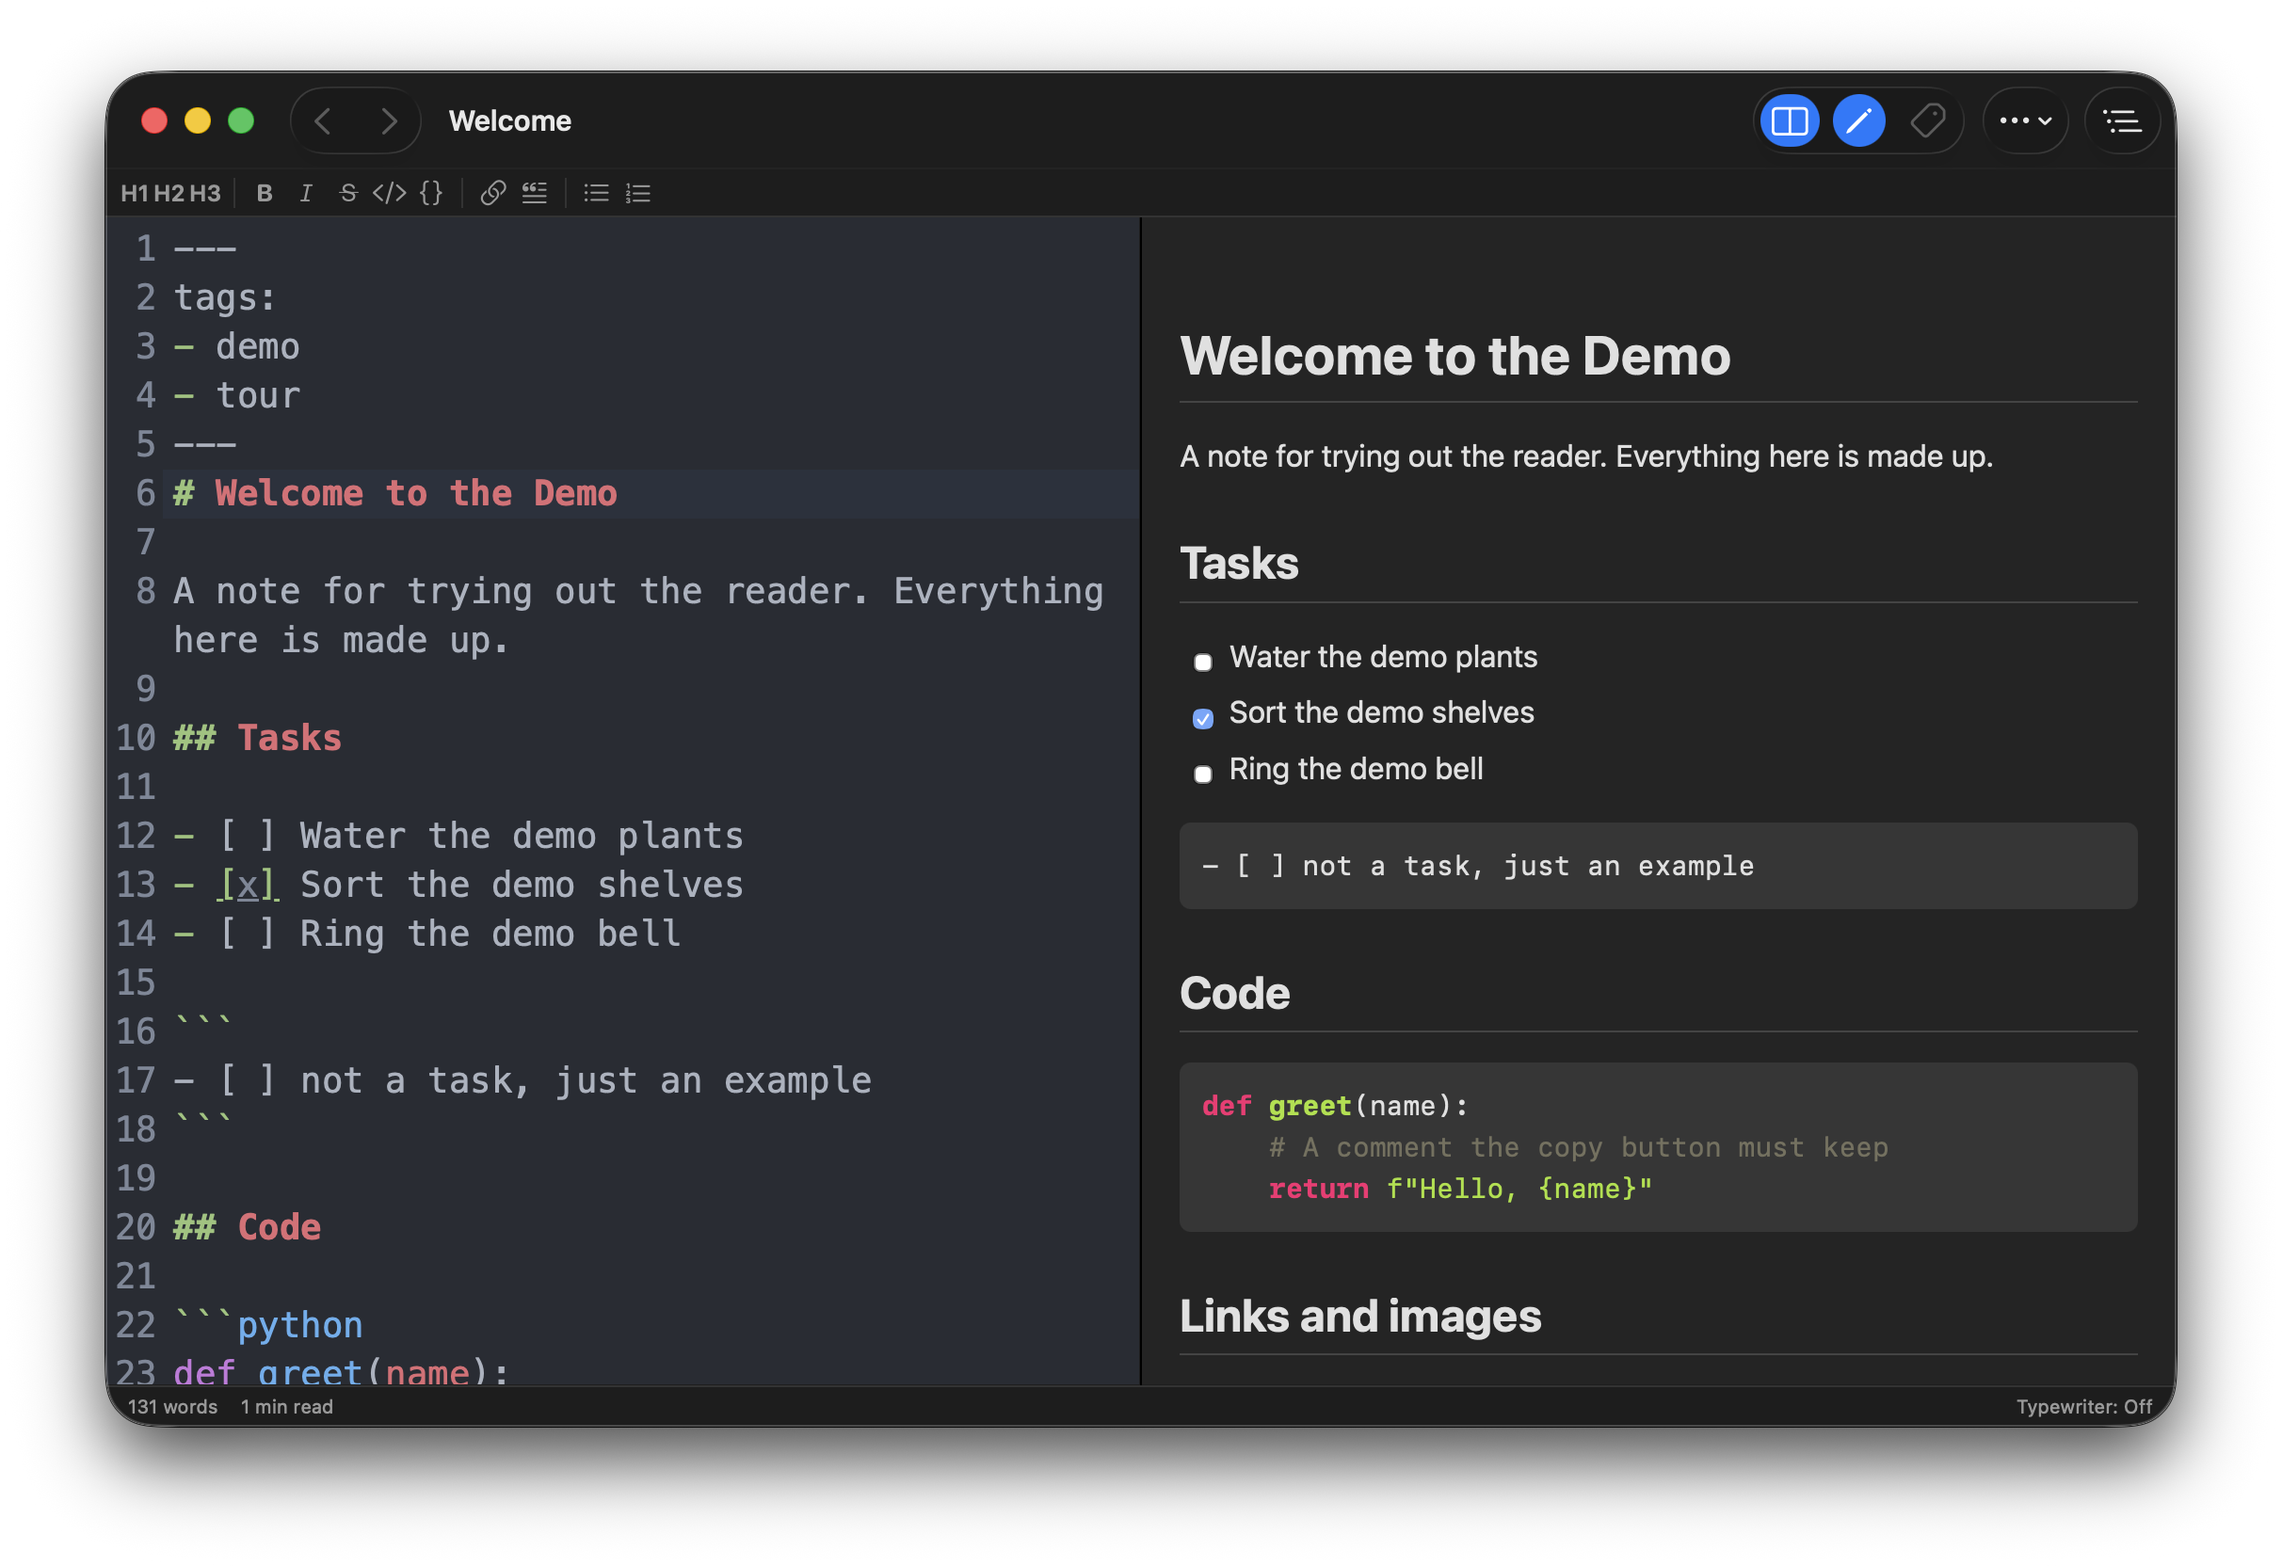
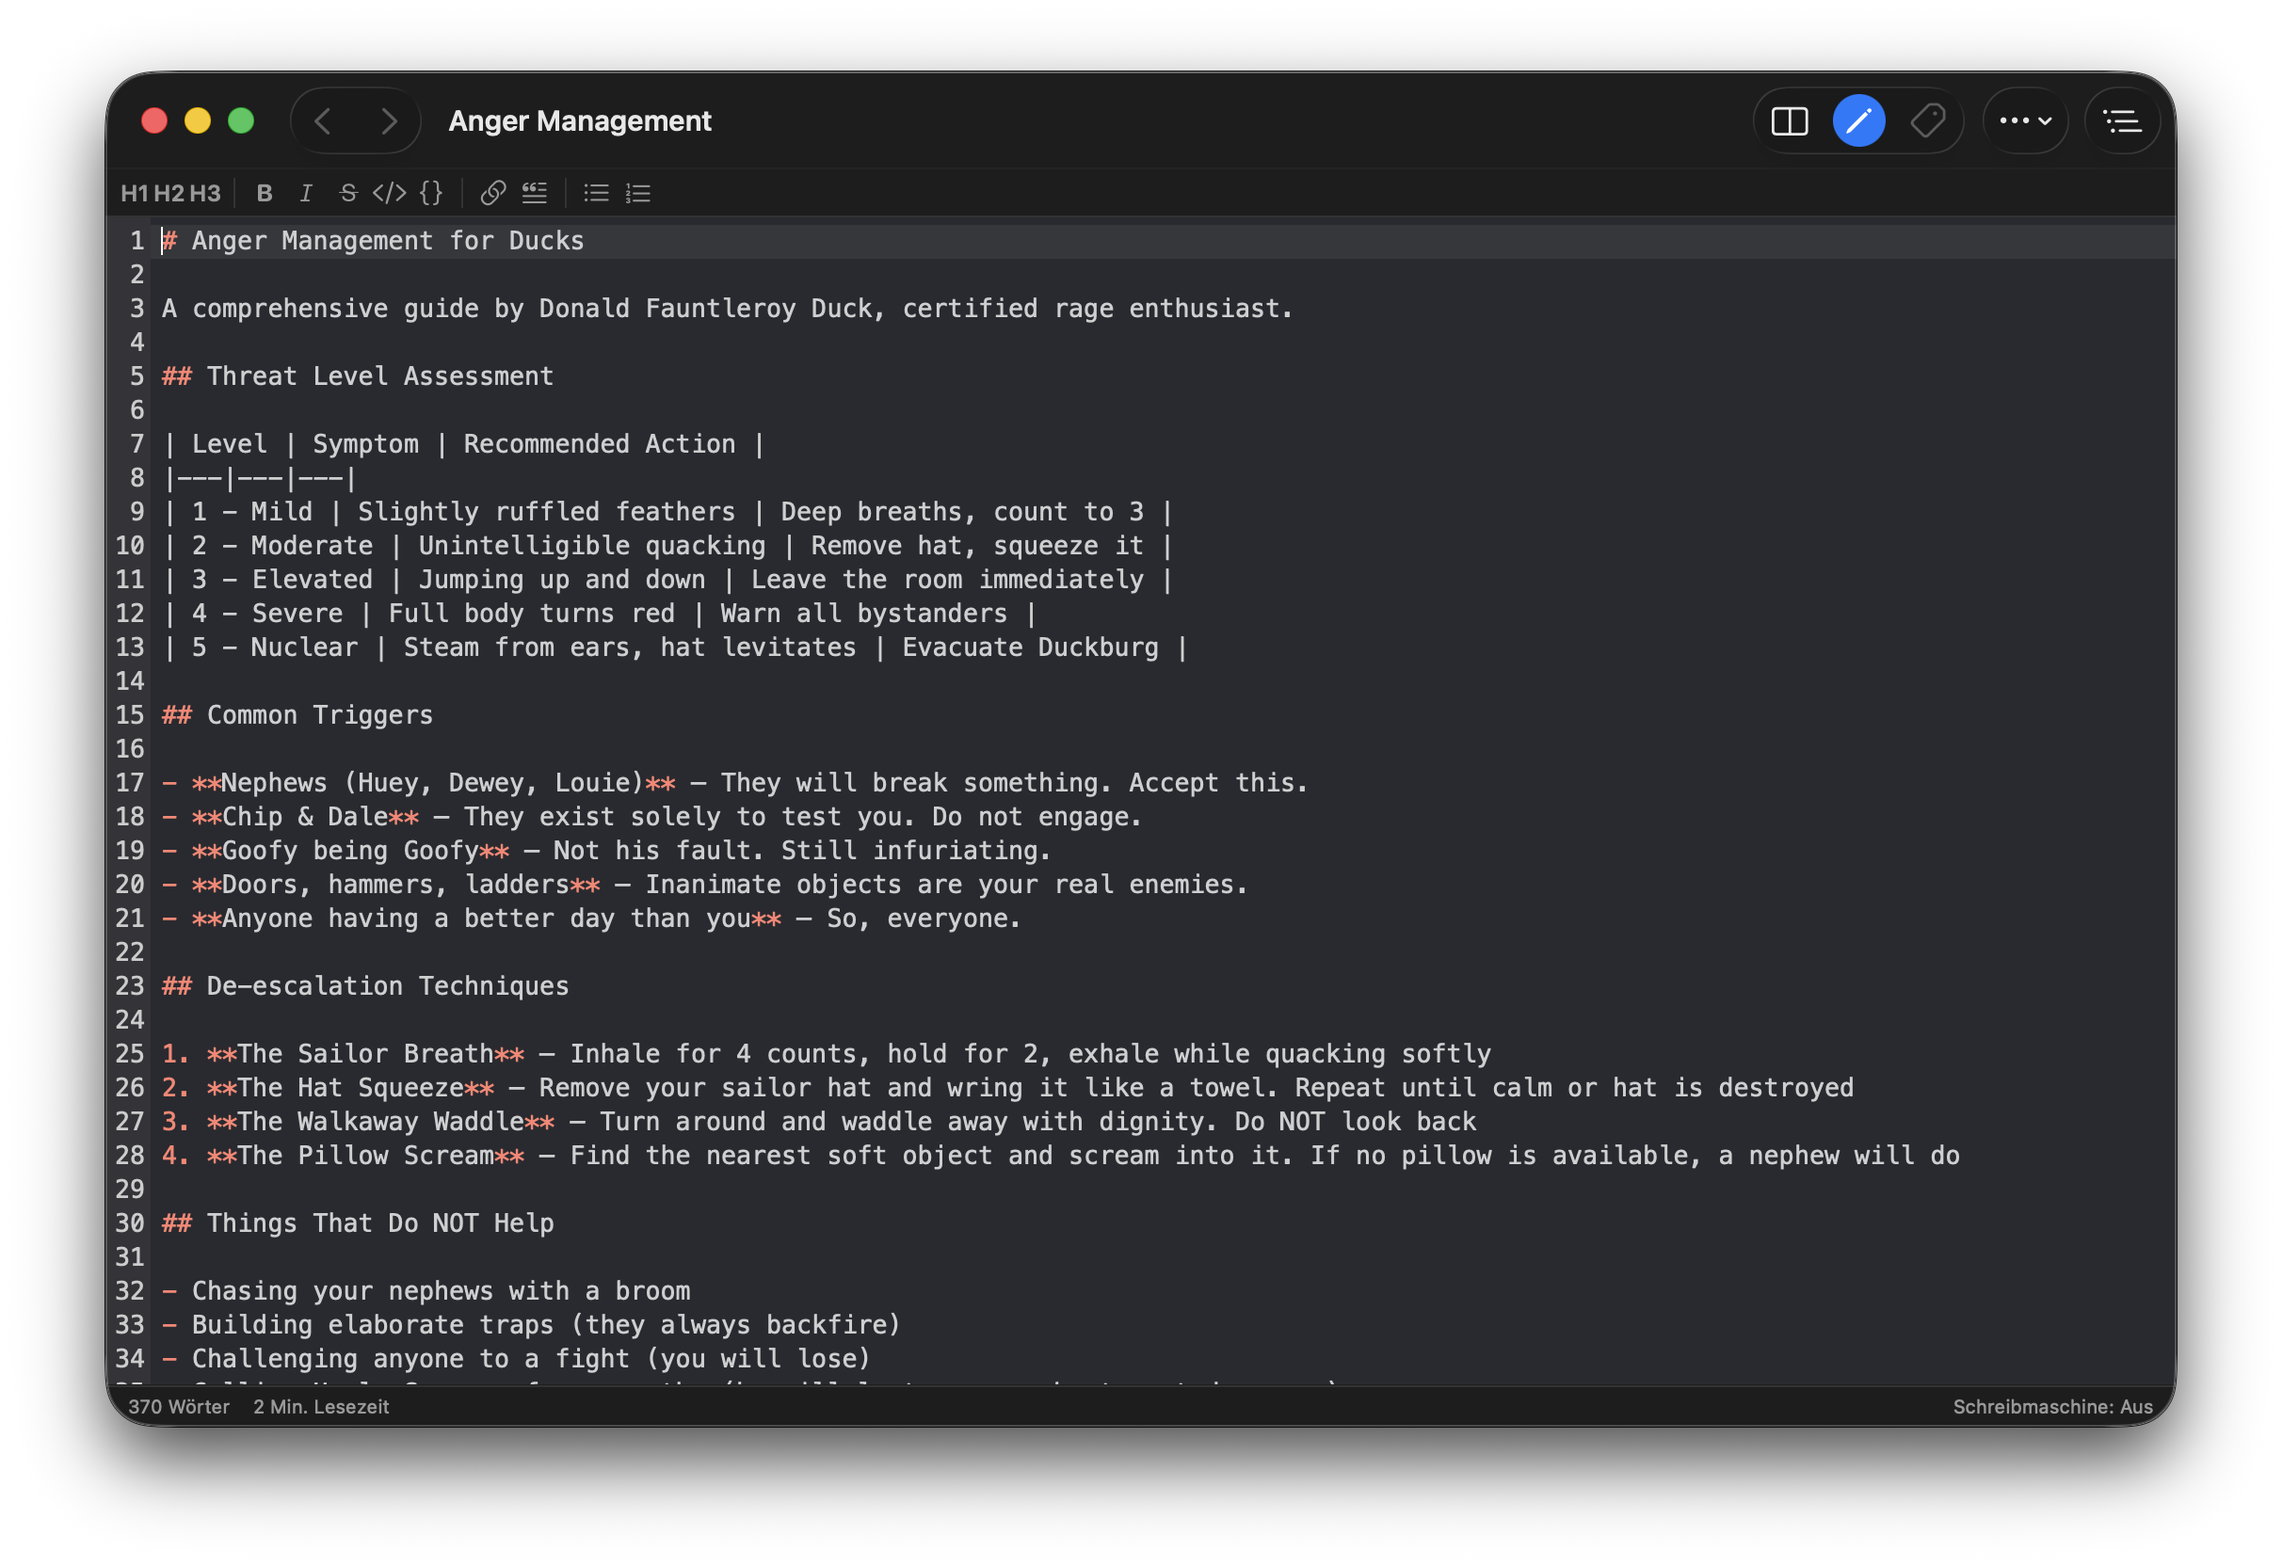
Column layouts on one toolbar button and ⌘1–3; new README screenshots

diff --git a/App/EndToEndCheck.swift b/App/EndToEndCheck.swift
@@ -10,6 +10,11 @@ import WebKit
 /// Drives the real window through what the reader does, against a throwaway
 /// copy of `assets/demo/notes`, and reports each step. Nothing here is mocked:
 /// clicks go to the page, and changes arrive through FSEvents.
+@MainActor enum FocusLog {
+    /// Presses that found the app in the background.
+    static var lost = 0
+}
+
 @MainActor struct EndToEndCheck {
     let window: WindowModel
 
@@ -160,6 +165,7 @@ import WebKit
 
         await editing(root: root, welcome: welcome, check: check)
         await library(root: root, welcome: welcome, original: original, check: check)
+        report += "info focus lost before \(FocusLog.lost) key presses\n"
         try? report.write(toFile: path, atomically: true, encoding: .utf8)
     }
 
@@ -303,6 +309,49 @@ import WebKit
         window.switchRoot(to: root)
         _ = await waitFor { window.root?.path == root.path }
 
+        // Layouts, measured, with real keys for the first two. 1, 2 and 3 are key
+        // codes 18, 19 and 20 on any layout.
+        window.open(welcome)
+        _ = await waitFor { window.openNote == welcome }
+        let page = window.reader.webView
+        await press(18, .maskCommand)
+        check("⌘1 shows all columns", await waitFor { window.columnLayout == .all })
+        try? await Task.sleep(for: .milliseconds(500))
+        let allWidth = page.frame.width
+        await press(19, .maskCommand)
+        check("⌘2 keeps the documents", await waitFor { window.columnLayout == .documents })
+        try? await Task.sleep(for: .milliseconds(700))
+        let documentsWidth = page.frame.width
+        check("the sidebar really goes (\(Int(allWidth)) to \(Int(documentsWidth)))", documentsWidth > allWidth + 50)
+        await press(20, .maskCommand)
+        let fullWidth = page.window?.frame.width ?? 0
+        check("⌘3 gives the note the whole width", await waitFor { page.frame.width >= (page.window?.frame.width ?? 1) - 1 })
+        check("wider than with the documents (\(Int(documentsWidth)) to \(Int(fullWidth)))", fullWidth > documentsWidth + 50)
+        check("the layout is saved", window.app.settings.value(Settings.columnLayout) == "note")
+        check("the note is still on the page", await web.value("document.querySelector('h1').textContent") == "Welcome to the Demo")
+        window.cycleLayout()
+        check("the button goes from the note to all columns", await waitFor { window.columnLayout == .all })
+        window.cycleLayout()
+        check("then to the documents and note", await waitFor { window.columnLayout == .documents })
+        window.cycleLayout()
+        check("then to the note alone", await waitFor { window.columnLayout == .note })
+        window.setLayout(.documents)
+        _ = await waitFor { !window.showsNoteOnly }
+        window.setLayout(.note)
+        window.showSearch()
+        check("search brings the documents back", await waitFor { window.columnLayout == .documents && window.listMode == .search })
+        window.closeLists()
+        window.setLayout(.note)
+        window.showTags()
+        check("so do tags", await waitFor { window.columnLayout == .documents && window.listMode == .tags })
+        window.closeLists()
+        window.setLayout(.documents)
+        _ = await enter()
+        check("editing takes the width from any layout", await waitFor { window.showsNoteOnly })
+        window.leaveEdit()
+        check("and returns to it", await waitFor { !window.isEditing && !window.showsNoteOnly && window.columnLayout == .documents })
+        window.setLayout(.all)
+
         // The Trash. One note with a name of its own, cleaned up by the script.
         let doomed = root.appending(path: "stenmark-e2e-trash.md")
         try? Data("x".utf8).write(to: doomed)
@@ -354,6 +403,15 @@ import WebKit
 
     /// A real key press through NSApp, so that it meets the menu bar first.
     private func press(_ code: UInt16, _ flags: CGEventFlags = []) async {
+        // Keys go to the key window, so someone using the Mac during a run would
+        // otherwise take them away from the test.
+        if !NSApp.isActive || NSApp.keyWindow == nil {
+            FocusLog.lost += 1
+            NSApp.activate(ignoringOtherApps: true)
+            NSApp.windows.first { $0.isVisible && $0.canBecomeMain }?.makeKeyAndOrderFront(nil)
+            _ = await waitFor(2) { NSApp.isActive && NSApp.keyWindow != nil }
+            if window.isEditing { await window.editor.focus() }
+        }
         for down in [true, false] {
             guard let cgEvent = CGEvent(keyboardEventSource: nil, virtualKey: code, keyDown: down) else { continue }
             cgEvent.flags = flags

diff --git a/App/WindowModel+Library.swift b/App/WindowModel+Library.swift
@@ -39,6 +39,40 @@ extension WindowModel {
         return root
     }
 
+    // MARK: Layout
+
+    /// Whether the window shows the note and nothing else.
+    var showsNoteOnly: Bool { hidesLists || columnLayout == .note }
+
+    func loadLayout() {
+        columnLayout = ColumnLayout(rawValue: app.settings.value(Settings.columnLayout)) ?? .all
+        if columnLayout != .note { lastListLayout = columnLayout }
+    }
+
+    func setLayout(_ layout: ColumnLayout) {
+        // Asking for the lists while editing means wanting them now.
+        if layout != .note { hidesLists = false }
+        guard layout != columnLayout else { return }
+        columnLayout = layout
+        if layout != .note { lastListLayout = layout }
+        try? app.settings.set(Settings.columnLayout, to: layout.rawValue)
+    }
+
+    /// The toolbar button: everything, then the documents and note, then the
+    /// note alone, and round again.
+    func cycleLayout() {
+        if showsNoteOnly {
+            setLayout(.all)
+        } else {
+            setLayout(columnLayout == .all ? .documents : .note)
+        }
+    }
+
+    /// Search and tags live in the document column, so they need it on screen.
+    private func revealDocumentColumn() {
+        if showsNoteOnly { setLayout(lastListLayout) }
+    }
+
     // MARK: Arranging lists
 
     private var loweredFilter: String {
@@ -266,6 +300,7 @@ extension WindowModel {
     }
 
     func showTags(selecting tag: String? = nil) {
+        revealDocumentColumn()
         listMode = .tags
         if let tag { selectedTags = [tag] }
         Task { await refreshTagResults() }
@@ -295,6 +330,7 @@ extension WindowModel {
     // MARK: Search
 
     func showSearch() {
+        revealDocumentColumn()
         listMode = .search
     }
 

diff --git a/App/Views/MainWindow.swift b/App/Views/MainWindow.swift
@@ -28,13 +28,16 @@ private struct WindowContent: View {
         Group {
             if window.root == nil {
                 WelcomeView(window: window)
-            } else if window.hidesLists {
+            } else if window.showsNoteOnly {
                 // Not a column visibility of .detailOnly, which a three-column
                 // split view on macOS ignores.
                 ReaderPane(window: window)
             } else {
-                NavigationSplitView {
+                NavigationSplitView(columnVisibility: columnVisibility) {
                     FolderSidebar(window: window)
+                        // One button steps through the layouts, in ReaderPane.
+                        // A second sidebar icon beside it looks like a mistake.
+                        .toolbar(removing: .sidebarToggle)
                         .navigationSplitViewColumnWidth(min: 170, ideal: 220)
                 } content: {
                     DocumentList(window: window)
@@ -228,6 +231,21 @@ private struct ConflictSheet: View {
         }
         .padding(20)
         .frame(width: 520)
+    }
+}
+
+private extension WindowContent {
+    /// The split view's own sidebar button comes through here too.
+    var columnVisibility: Binding<NavigationSplitViewVisibility> {
+        Binding(
+            get: { window.columnLayout == .documents ? .doubleColumn : .all },
+            set: { visibility in
+                // The split view reports once more as it's taken away for the
+                // note alone, which mustn't undo that layout.
+                guard !window.showsNoteOnly else { return }
+                window.setLayout(visibility == .all ? .all : .documents)
+            }
+        )
     }
 }
 

diff --git a/App/Commands.swift b/App/Commands.swift
@@ -18,6 +18,15 @@ struct StenmarkCommands: Commands {
     @FocusedValue(\.windowModel) private var window
     @Environment(\.openWindow) private var openWindow
 
+    private func layoutItem(_ title: LocalizedStringKey, _ layout: ColumnLayout, key: KeyEquivalent) -> some View {
+        Toggle(title, isOn: Binding(
+            get: { window?.columnLayout == layout },
+            set: { _ in window?.setLayout(layout) }
+        ))
+        .keyboardShortcut(key)
+        .disabled(window?.root == nil)
+    }
+
     var body: some Commands {
         CommandGroup(replacing: .newItem) {
             Button("New Note…") { window?.requestNewNote() }
@@ -53,6 +62,12 @@ struct StenmarkCommands: Commands {
             Button("Find Previous") { window?.findNext(-1) }
                 .keyboardShortcut("g", modifiers: [.command, .shift])
                 .disabled(window?.isFindVisible != true)
+        }
+        CommandGroup(after: .sidebar) {
+            Divider()
+            layoutItem("All Columns", .all, key: "1")
+            layoutItem("Documents and Note", .documents, key: "2")
+            layoutItem("Note Only", .note, key: "3")
         }
         CommandGroup(replacing: .help) {
             Button("What’s New in Stenmark") { window?.showWhatsNew = true }

diff --git a/App/WindowModel.swift b/App/WindowModel.swift
@@ -14,6 +14,11 @@ enum SidebarItem: Hashable {
     case tag(String)
 }
 
+/// Which columns a window shows.
+enum ColumnLayout: String {
+    case all, documents, note
+}
+
 struct Message: Identifiable {
     let id = UUID()
     let title: String
@@ -81,8 +86,12 @@ final class WindowModel {
     var conflict: SaveConflict?
     var unsavedPrompt: UnsavedPrompt?
     var previewTask: Task<Void, Never>?
-    /// The folder and document columns are out of the way for editing.
+    /// The folder and document columns are out of the way for editing, which
+    /// is separate from the layout so that leaving edit mode returns to it.
     var hidesLists = false
+    var columnLayout = ColumnLayout.all
+    /// What to come back to from the note alone.
+    var lastListLayout = ColumnLayout.all
     var isPreviewVisible = false
     var isTypewriterOn = false
     var isContentsVisible = false

diff --git a/Packages/StenmarkCore/Sources/StenmarkCore/Config/SettingsStore.swift b/Packages/StenmarkCore/Sources/StenmarkCore/Config/SettingsStore.swift
@@ -40,6 +40,8 @@ public enum Settings {
     public static let previewEnabled = Setting("preview_enabled", false)
     public static let lastRootFolder = Setting("last_root_folder", "")
     public static let whatsNewSeen = Setting("whats_new_seen", "")
+    /// Mac only: which columns a window shows.
+    public static let columnLayout = Setting("mac_column_layout", "all")
     public static let pinnedFiles = Setting("pinned_files", [String]())
     public static let pinnedFolders = Setting("pinned_folders", [String]())
 }

diff --git a/App/Views/ReaderPane.swift b/App/Views/ReaderPane.swift
@@ -50,6 +50,8 @@ struct ReaderPane: View {
         }
         .toolbar {
             ToolbarItemGroup(placement: .navigation) {
+                Button("Change Layout", systemImage: "sidebar.left") { window.cycleLayout() }
+                    .help("Change Layout")
                 Button("Back", systemImage: "chevron.left") { window.goBack() }
                     .disabled(!window.canGoBack)
                 Button("Forward", systemImage: "chevron.right") { window.goForward() }

diff --git a/App/WindowModel+Editing.swift b/App/WindowModel+Editing.swift
@@ -32,6 +32,7 @@ extension WindowModel {
     }
 
     func configureEditing() {
+        loadLayout()
         isPreviewVisible = app.settings.value(Settings.previewEnabled)
         isTypewriterOn = app.settings.value(Settings.editorTypewriter)
         editor.onSave = { [weak self] in self?.saveNow() }

diff --git a/README.md b/README.md
@@ -8,9 +8,11 @@ editor is CodeMirror 6, hosted in a `WKWebView`.
 
 <img src="docs/icon.png" alt="Stenmark icon" width="128">
 
-![Reading a note, with its folder and documents beside it](docs/screenshots/reader.png)
+![Reading a note, with its folders and documents beside it](docs/screenshots/reader.png)
 
-![Editing a note, with the live preview](docs/screenshots/editor.png)
+![Editing a note, with the live preview beside it](docs/screenshots/preview.png)
+
+![The editor at the window's full width](docs/screenshots/editor.png)
 
 ## Features
 
